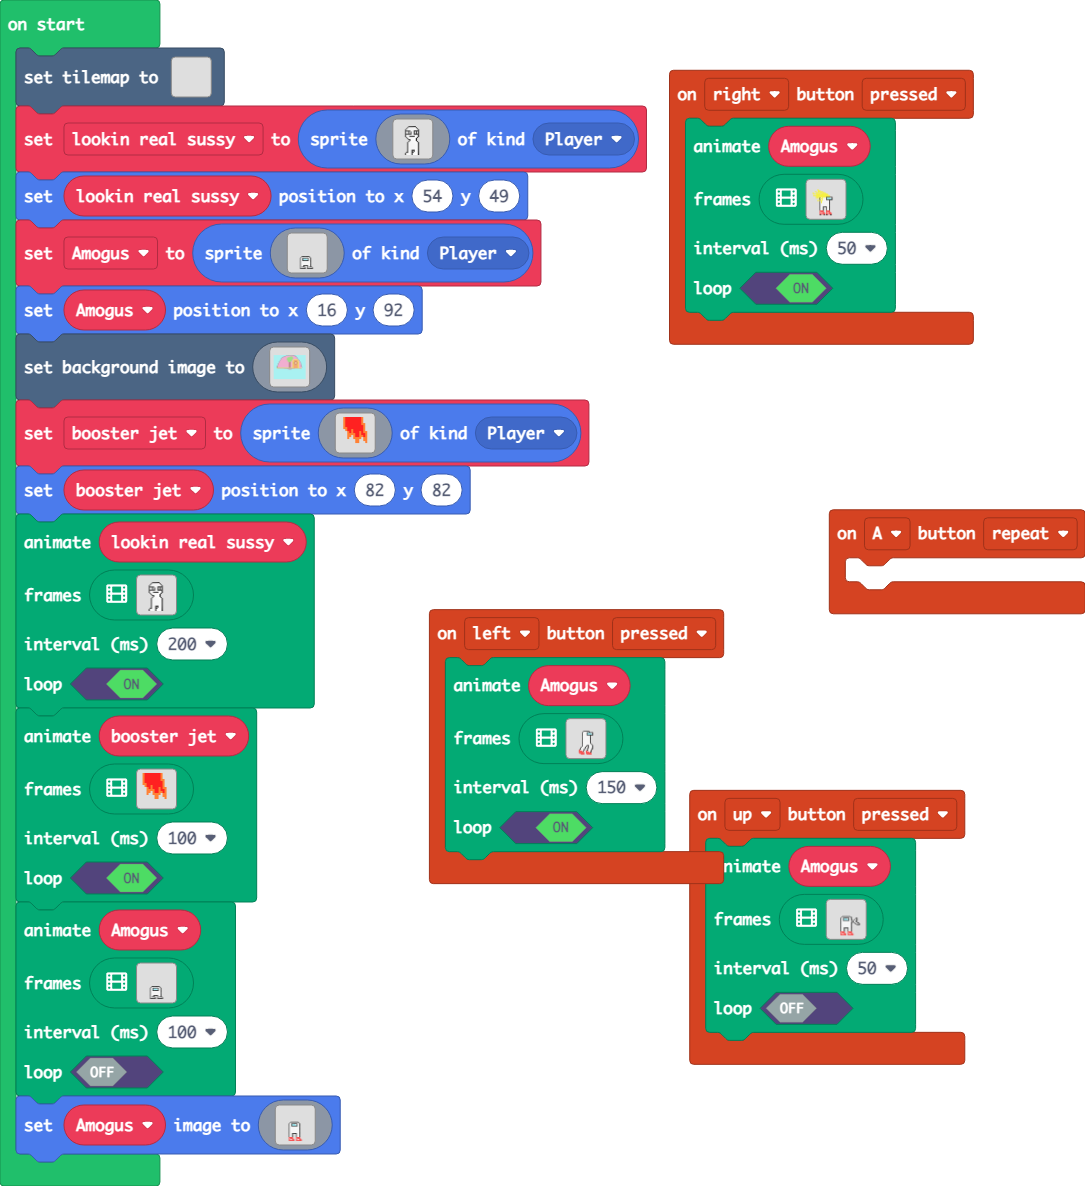
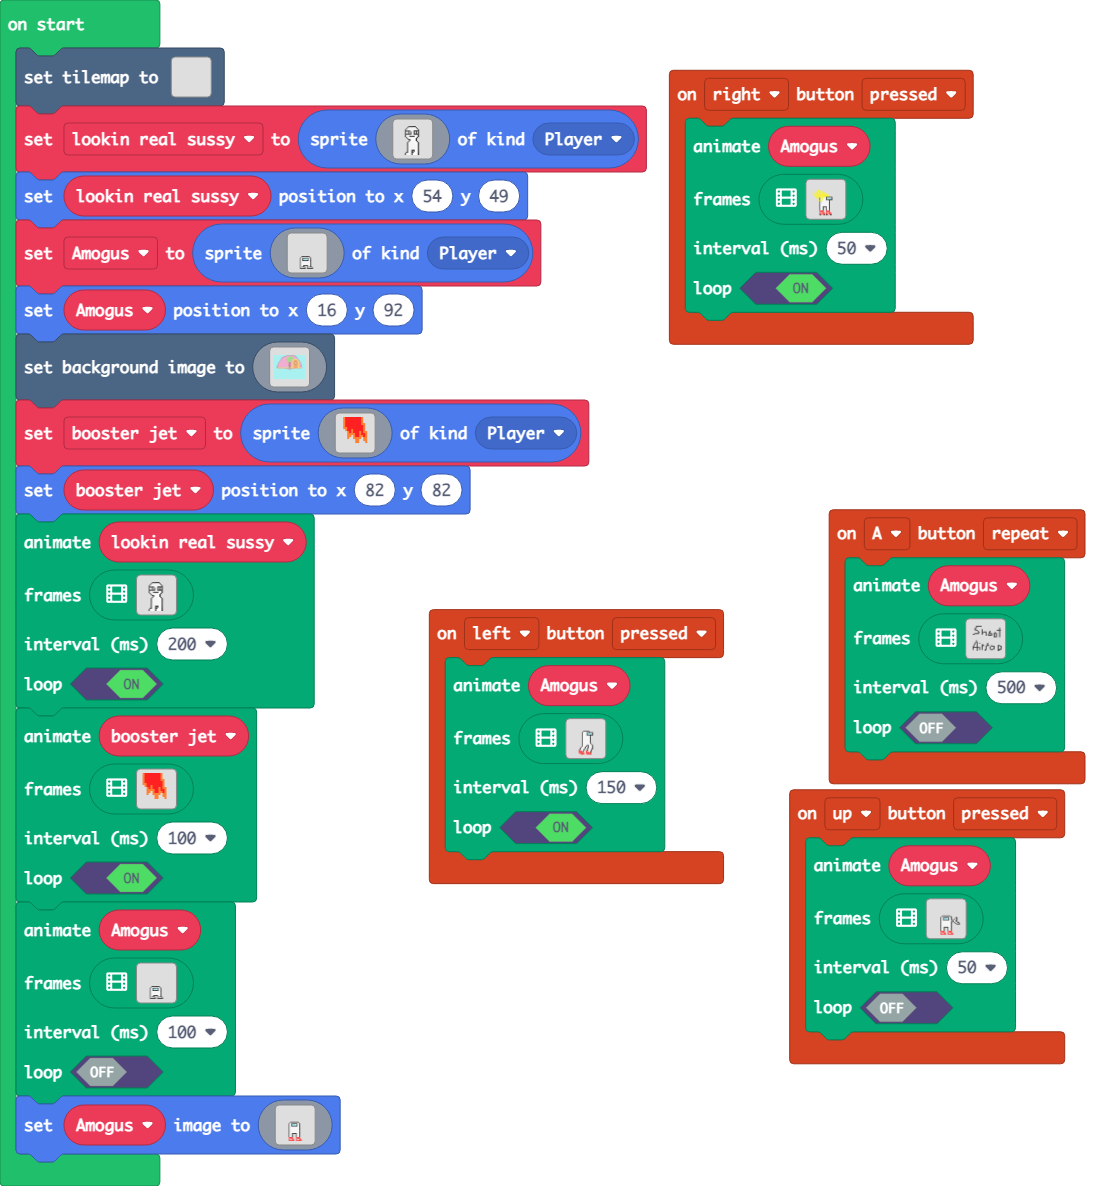
Update main.blocks, main.ts

diff --git a/main.ts b/main.ts
@@ -187,7 +187,53 @@ controller.right.onEvent(ControllerButtonEvent.Pressed, function () {
     )
 })
 controller.A.onEvent(ControllerButtonEvent.Repeated, function () {
-	
+    animation.runImageAnimation(
+    Amogus,
+    [img`
+        ........................................
+        ........................................
+        ........................................
+        ........................................
+        ........fffffff.........................
+        ........f...............................
+        .......f.............................f..
+        ......ff.............................f..
+        ......f........f.....................f..
+        .......fff.....f..................fffff.
+        ..........f....f.........f...........f..
+        ...........f...f.ffff...ff...........f..
+        ..........ff...ff...f...f......ff....f..
+        ......fffff....f....f...ffff..ff.f...f..
+        ....ff.........f....f..f...f..f..f...f..
+        ....................f..fffff..f..f...f..
+        ..............................f..f...f..
+        ..............................ffff...f..
+        ........................................
+        ........................................
+        ........................................
+        ........................................
+        ........f...............................
+        ........f...............................
+        .......f.f..............................
+        ......f..f..f.........f.................
+        ......f..f............f.................
+        .....f...f.....ff....f.f................
+        .....f...f.....fff...fff...f.......fff..
+        ....f....f.....f....f.....f.fff....f..ff
+        ....fffffff.f..f....f....f....f....f...f
+        ....f....f..f..f....f....f....f....f...f
+        ....f....f..f..f....f....f...ff....f..ff
+        ....f....f..f..f...ff.....fff......ffff.
+        .........f.........f...............ff...
+        ........................................
+        ........................................
+        ........................................
+        ........................................
+        ........................................
+        `],
+    500,
+    false
+    )
 })
 let Amogus: Sprite = null
 tiles.setTilemap(tilemap`level1`)
